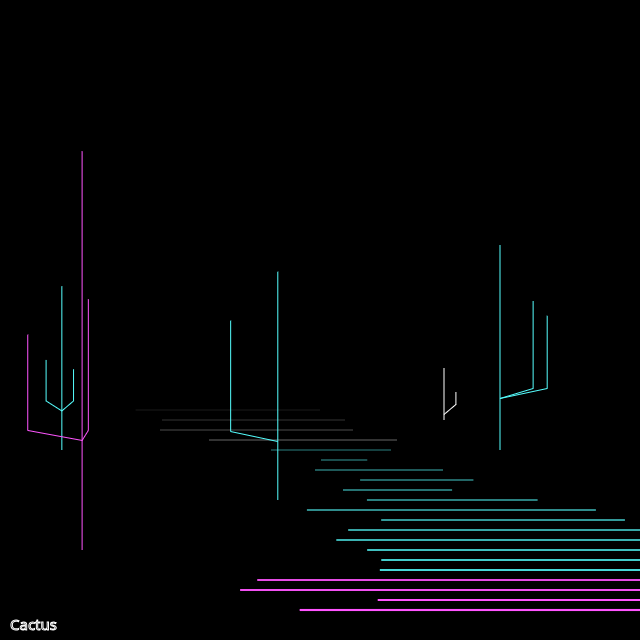
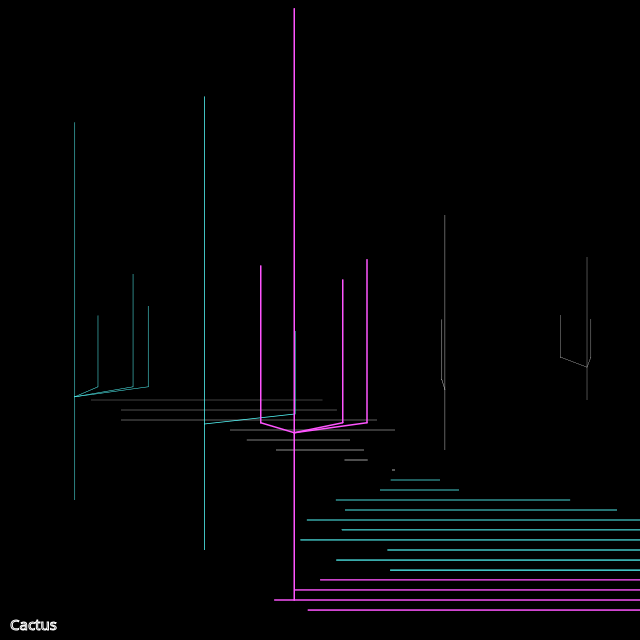
rebuild day4

diff --git a/blog/posts/gentober2026/2026-10-04-gentober-cactus.html b/blog/posts/gentober2026/2026-10-04-gentober-cactus.html
@@ -42,16 +42,17 @@
 <span class="hljs-keyword">const</span> cyan = <span class="hljs-string">&quot;#55ffff&quot;</span>;
 <span class="hljs-keyword">const</span> magenta = <span class="hljs-string">&quot;#ff55ff&quot;</span>;
 
-<span class="hljs-keyword">function</span> <span class="hljs-title function_">cactus</span>(<span class="hljs-params">x,y, baseHeight</span>) {
+<span class="hljs-keyword">function</span> <span class="hljs-title function_">cactus</span>(<span class="hljs-params">x,y, baseHeight, distance</span>) {
   <span class="hljs-comment">// saguaro-like cactus with random number of arms</span>
-  <span class="hljs-keyword">if</span> (baseHeight &lt; <span class="hljs-number">100</span>) {
+  <span class="hljs-keyword">if</span> (distance &gt;= <span class="hljs-number">4</span>) {
     <span class="hljs-title function_">stroke</span>(white);
-  } <span class="hljs-keyword">else</span> <span class="hljs-keyword">if</span> (baseHeight &gt;= <span class="hljs-number">100</span> &amp;&amp; baseHeight &lt; <span class="hljs-number">250</span>) {
+  } <span class="hljs-keyword">else</span> <span class="hljs-keyword">if</span> (distance &gt;= <span class="hljs-number">2</span>) {
     <span class="hljs-title function_">stroke</span>(cyan);
   } <span class="hljs-keyword">else</span> {
     <span class="hljs-title function_">stroke</span>(magenta);
   }
-  <span class="hljs-title function_">strokeWeight</span>(<span class="hljs-number">1</span>);
+
+  <span class="hljs-title function_">strokeWeight</span>(<span class="hljs-number">1.5</span> / distance);
 
   <span class="hljs-keyword">let</span> dy = baseHeight+<span class="hljs-title function_">random</span>(<span class="hljs-number">25</span>,<span class="hljs-number">100</span>);
   <span class="hljs-keyword">let</span> cHeight = dy;
@@ -59,15 +60,12 @@
   <span class="hljs-comment">// spine</span>
   <span class="hljs-title function_">line</span>(x,y, x, y-dy);
 
-  <span class="hljs-comment">// number of arms</span>
+  <span class="hljs-comment">// arms</span>
   <span class="hljs-keyword">const</span> nArms = <span class="hljs-title function_">random</span>(<span class="hljs-number">1</span>, <span class="hljs-number">4</span>);
-
   <span class="hljs-keyword">for</span>(<span class="hljs-keyword">let</span> i=<span class="hljs-number">1</span>; i &lt;= nArms; i++) {
     <span class="hljs-keyword">let</span> xpos = x + <span class="hljs-title function_">random</span>(-cHeight/<span class="hljs-number">4</span>, cHeight/<span class="hljs-number">4</span>);
-    <span class="hljs-comment">// let x1 = x;</span>
     <span class="hljs-keyword">let</span> y1 = y - <span class="hljs-number">0.30</span>*cHeight;
-    <span class="hljs-comment">// let x2 = x1 + random(-cHeight/3, cHeight/3);</span>
-    <span class="hljs-keyword">let</span> y2 = y1 - <span class="hljs-title function_">random</span>(cHeight/<span class="hljs-number">6</span>, cHeight/<span class="hljs-number">2</span>);
+    <span class="hljs-keyword">let</span> y2 = y1 - <span class="hljs-title function_">random</span>(cHeight/<span class="hljs-number">6</span>, cHeight/<span class="hljs-number">3</span>);
     <span class="hljs-title function_">line</span>(xpos, y1, xpos, y2);
     <span class="hljs-title function_">line</span>(xpos, y1, x, y1+<span class="hljs-number">10</span>);
   }
@@ -88,10 +86,10 @@
   <span class="hljs-keyword">let</span> cga = [white, cyan, magenta];
 
   <span class="hljs-comment">// landscape</span>
-  <span class="hljs-keyword">for</span> (<span class="hljs-keyword">let</span> y=<span class="hljs-number">400</span>, x=<span class="hljs-number">0</span>, z=<span class="hljs-number">0</span>; y &lt; <span class="hljs-number">620</span>; y+=<span class="hljs-number">10</span>, x+=<span class="hljs-number">10</span>, z+=<span class="hljs-number">0.1</span>) {
+  <span class="hljs-keyword">for</span> (<span class="hljs-keyword">let</span> y=<span class="hljs-number">400</span>, x=<span class="hljs-number">0</span>, z=<span class="hljs-number">0.25</span>; y &lt; <span class="hljs-number">620</span>; y+=<span class="hljs-number">10</span>, x+=<span class="hljs-number">10</span>, z+=<span class="hljs-number">0.06</span>) {
     <span class="hljs-title function_">strokeWeight</span>(z);
-    <span class="hljs-keyword">if</span> (y &lt; <span class="hljs-number">580</span>) {
-      <span class="hljs-title function_">stroke</span>(y &lt; <span class="hljs-number">450</span> ? white : cyan);
+    <span class="hljs-keyword">if</span> (y &lt; <span class="hljs-number">575</span>) {
+      <span class="hljs-title function_">stroke</span>(y &lt; <span class="hljs-number">475</span> ? white : cyan);
       <span class="hljs-title function_">line</span>(x*<span class="hljs-number">5</span>+<span class="hljs-title function_">random</span>(<span class="hljs-number">0</span>,<span class="hljs-number">100</span>), y, <span class="hljs-number">200</span> + <span class="hljs-title function_">random</span>(<span class="hljs-number">100</span>,<span class="hljs-number">200</span>), y);
     } <span class="hljs-keyword">else</span> {
       <span class="hljs-title function_">stroke</span>(magenta);
@@ -100,12 +98,9 @@
   }
 
   <span class="hljs-comment">// cactus</span>
-  <span class="hljs-title function_">cactus</span>(<span class="hljs-number">444</span>, <span class="hljs-number">420</span>, <span class="hljs-number">25</span>);
-  <span class="hljs-keyword">for</span> (<span class="hljs-keyword">let</span> nc = <span class="hljs-number">1</span>; nc &lt;= <span class="hljs-number">3</span>; nc++) {
-    <span class="hljs-title function_">cactus</span>(<span class="hljs-title function_">random</span>(<span class="hljs-number">0</span>,<span class="hljs-number">340</span>), <span class="hljs-number">400</span> + nc*<span class="hljs-number">50</span>, <span class="hljs-number">100</span>*nc);
+  <span class="hljs-keyword">for</span> (<span class="hljs-keyword">let</span> nc = <span class="hljs-number">0</span>, d = <span class="hljs-number">5</span>; nc &lt; <span class="hljs-number">5</span>; nc++, d--) {
+    <span class="hljs-title function_">cactus</span>(<span class="hljs-title function_">random</span>(<span class="hljs-number">0</span>,<span class="hljs-number">600</span>), <span class="hljs-number">400</span> + nc*<span class="hljs-number">50</span>, <span class="hljs-number">100</span>*nc+<span class="hljs-number">100</span>, d);
   }
-
-  <span class="hljs-title function_">cactus</span>(<span class="hljs-number">500</span>, <span class="hljs-number">450</span>, <span class="hljs-number">110</span>);
 }
 
 <span class="hljs-keyword">function</span> <span class="hljs-title function_">keyPressed</span>(<span class="hljs-params"></span>) {

diff --git a/content/posts/gentober2026/2026-10-04-gentober-cactus.md b/content/posts/gentober2026/2026-10-04-gentober-cactus.md
@@ -10,16 +10,17 @@ const white = "#fff";
 const cyan = "#55ffff";
 const magenta = "#ff55ff";
 
-function cactus(x,y, baseHeight) {
+function cactus(x,y, baseHeight, distance) {
   // saguaro-like cactus with random number of arms
-  if (baseHeight < 100) {
+  if (distance >= 4) {
     stroke(white);
-  } else if (baseHeight >= 100 && baseHeight < 250) {
+  } else if (distance >= 2) {
     stroke(cyan);
   } else {
     stroke(magenta);
   }
-  strokeWeight(1);
+
+  strokeWeight(1.5 / distance);
 
   let dy = baseHeight+random(25,100);
   let cHeight = dy;
@@ -27,15 +28,12 @@ function cactus(x,y, baseHeight) {
   // spine
   line(x,y, x, y-dy);
 
-  // number of arms
+  // arms
   const nArms = random(1, 4);
-
   for(let i=1; i <= nArms; i++) {
     let xpos = x + random(-cHeight/4, cHeight/4);
-    // let x1 = x;
     let y1 = y - 0.30*cHeight;
-    // let x2 = x1 + random(-cHeight/3, cHeight/3);
-    let y2 = y1 - random(cHeight/6, cHeight/2);
+    let y2 = y1 - random(cHeight/6, cHeight/3);
     line(xpos, y1, xpos, y2);
     line(xpos, y1, x, y1+10);
   }
@@ -56,10 +54,10 @@ function setup() {
   let cga = [white, cyan, magenta];
 
   // landscape
-  for (let y=400, x=0, z=0; y < 620; y+=10, x+=10, z+=0.1) {
+  for (let y=400, x=0, z=0.25; y < 620; y+=10, x+=10, z+=0.06) {
     strokeWeight(z);
-    if (y < 580) {
-      stroke(y < 450 ? white : cyan);
+    if (y < 575) {
+      stroke(y < 475 ? white : cyan);
       line(x*5+random(0,100), y, 200 + random(100,200), y);
     } else {
       stroke(magenta);
@@ -68,12 +66,9 @@ function setup() {
   }
 
   // cactus
-  cactus(444, 420, 25);
-  for (let nc = 1; nc <= 3; nc++) {
-    cactus(random(0,340), 400 + nc*50, 100*nc);
+  for (let nc = 0, d = 5; nc < 5; nc++, d--) {
+    cactus(random(0,600), 400 + nc*50, 100*nc+100, d);
   }
-
-  cactus(500, 450, 110);
 }
 
 function keyPressed() {
